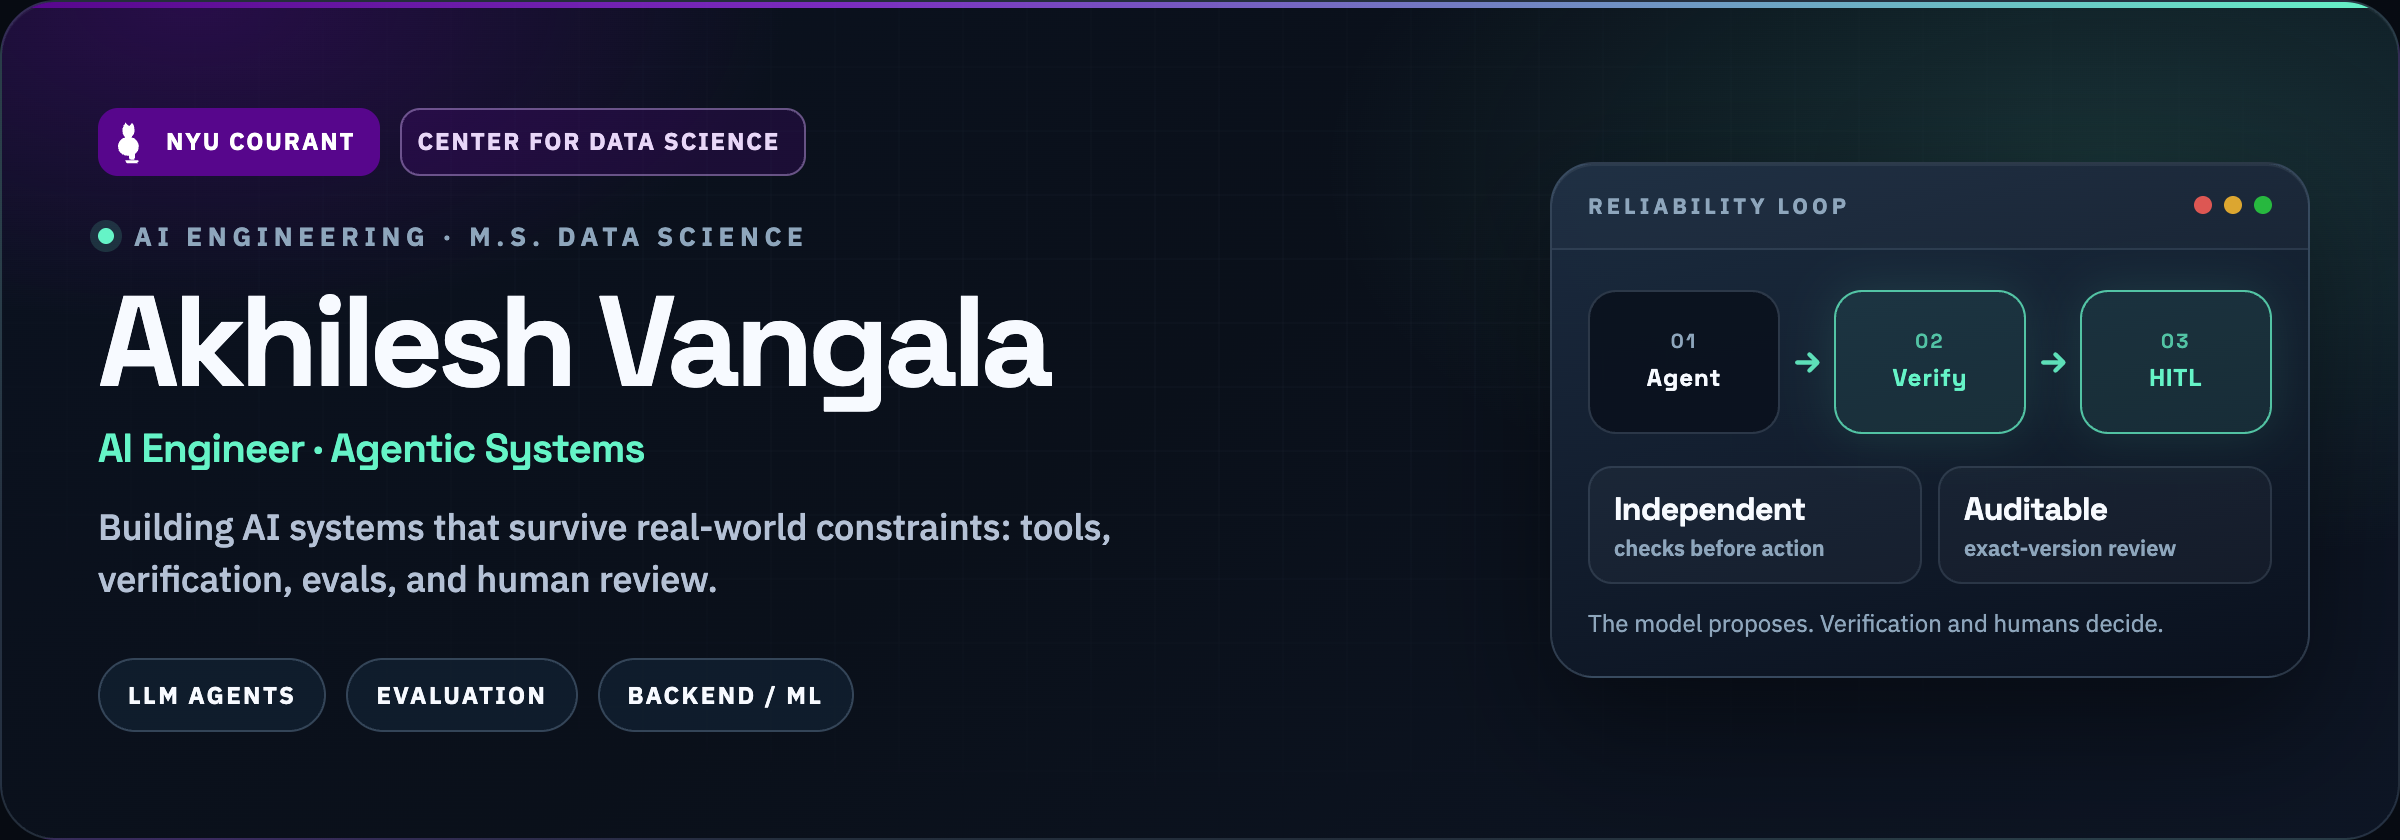
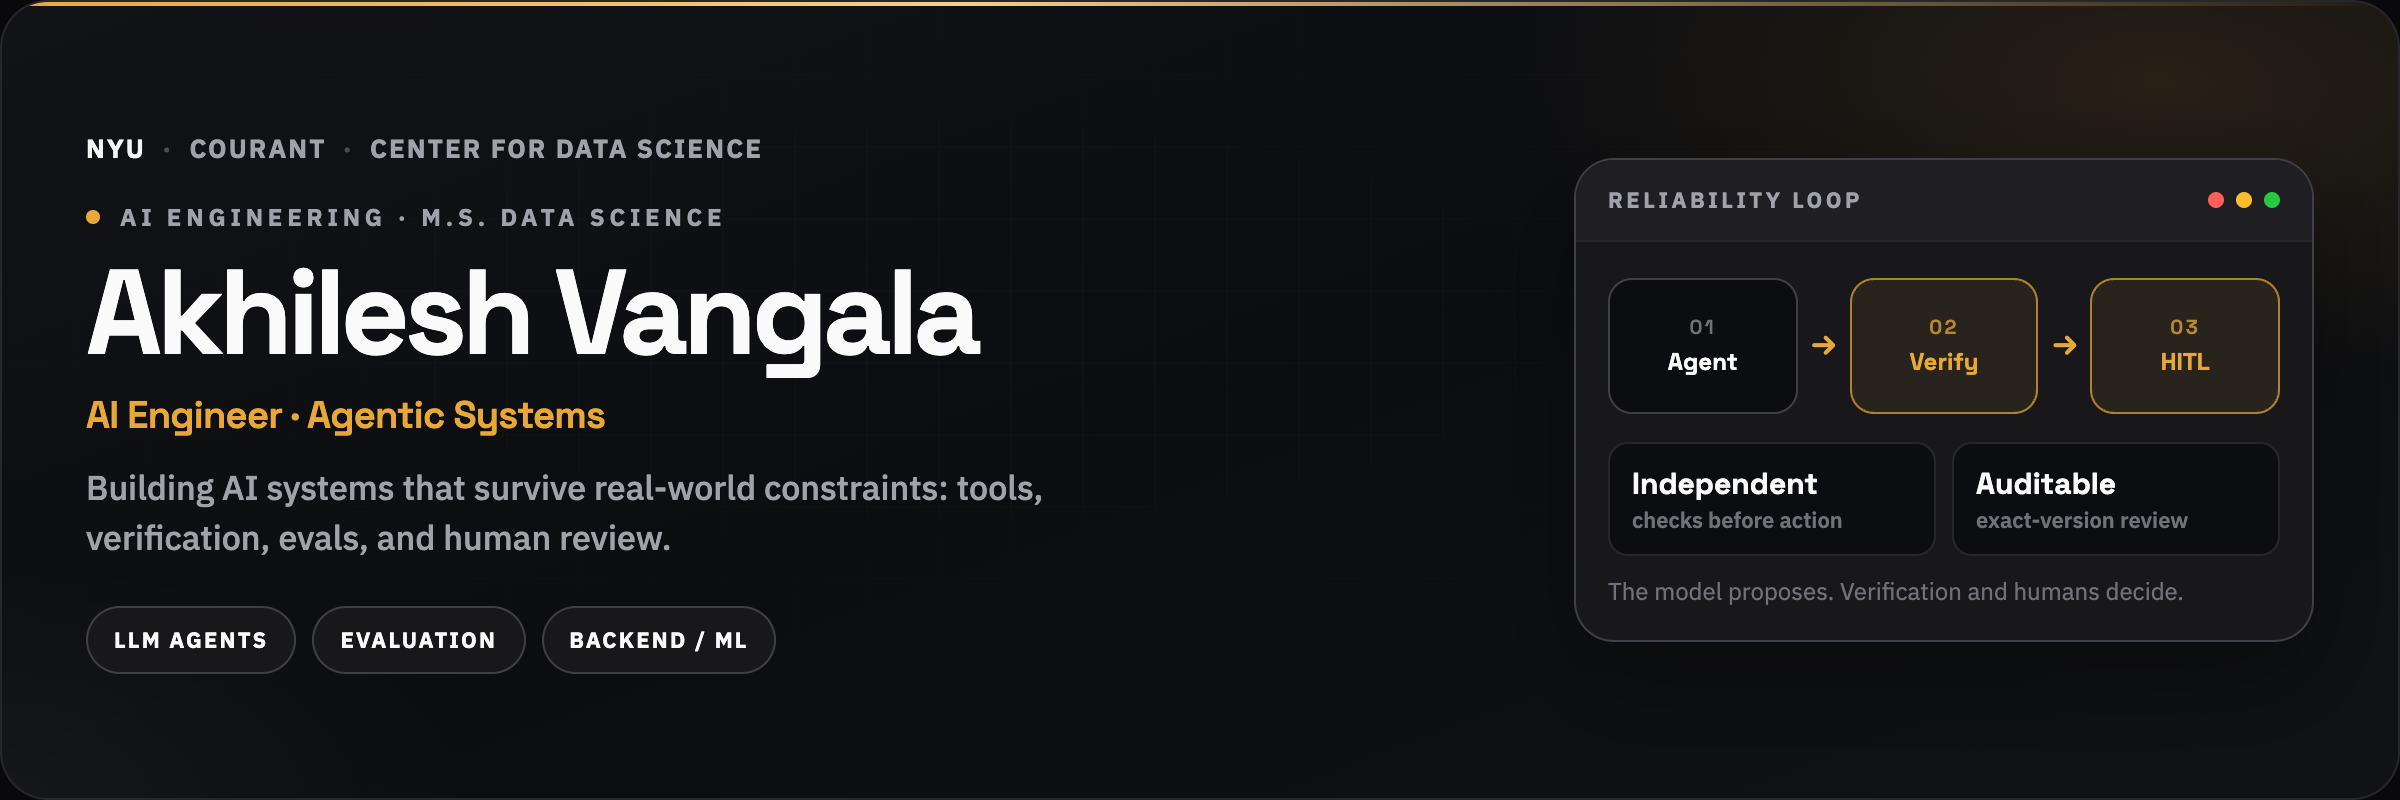
Restyle profile: slate/amber palette, no torch mark, PNG system cards.

diff --git a/README.md b/README.md
@@ -2,7 +2,7 @@
 
 <picture>
   <source media="(prefers-color-scheme: light)" srcset="./assets/hero-light.png" />
-  <img src="./assets/hero-dark.png" width="100%" alt="Akhilesh Vangala, AI Engineer at NYU Courant and Center for Data Science" />
+  <img src="./assets/hero-dark.png" width="100%" alt="Akhilesh Vangala, AI Engineer" />
 </picture>
 
 <br/>
@@ -28,54 +28,42 @@ I build **evidence-grounded agent systems**: tool-using workflows with auditable
 <table>
 <tr>
 <td width="50%" valign="top">
-  <a href="https://github.com/Akhilesh-Vangala/verifyops"><img src="./assets/verifyops.svg" width="100%" alt="VerifyOps" /></a>
-  <h3><a href="https://github.com/Akhilesh-Vangala/verifyops">VerifyOps</a></h3>
-  <p>Data-incident agent: restricted SQL investigation, independent dbt repair checks, persistent work state, exact-version human review.</p>
+  <a href="https://github.com/Akhilesh-Vangala/verifyops"><img src="./assets/verifyops.png" width="100%" alt="VerifyOps" /></a>
+  <p>Restricted SQL investigation, independent dbt repair checks, persistent state, exact-version human review.</p>
   <p><code>LangGraph</code> <code>FastAPI</code> <code>DuckDB</code> <code>dbt</code></p>
-  <p>
-    <a href="https://verifyops.vercel.app">Live showcase</a> ·
-    <a href="https://github.com/Akhilesh-Vangala/verifyops/blob/main/docs/CASE-STUDY.md">Case study</a>
-  </p>
+  <p><a href="https://verifyops.vercel.app">Live showcase</a> · <a href="https://github.com/Akhilesh-Vangala/verifyops/blob/main/docs/CASE-STUDY.md">Case study</a></p>
 </td>
 <td width="50%" valign="top">
-  <a href="https://github.com/Akhilesh-Vangala/relayops"><img src="./assets/relayops.svg" width="100%" alt="RelayOps" /></a>
-  <h3><a href="https://github.com/Akhilesh-Vangala/relayops">RelayOps</a></h3>
-  <p>Enterprise workflow agent: browser observations, cited hypotheses, private-copy simulation, immutable review, receipted sandbox actions.</p>
+  <a href="https://github.com/Akhilesh-Vangala/relayops"><img src="./assets/relayops.png" width="100%" alt="RelayOps" /></a>
+  <p>Browser observations, cited hypotheses, private-copy simulation, immutable review, receipted sandbox actions.</p>
   <p><code>LangGraph</code> <code>Playwright</code> <code>FastAPI</code> <code>Pydantic</code></p>
-  <p>
-    <a href="https://relayops-two.vercel.app">Live showcase</a> ·
-    <a href="https://github.com/Akhilesh-Vangala/relayops/blob/main/docs/CASE-STUDY.md">Case study</a>
-  </p>
+  <p><a href="https://relayops-two.vercel.app">Live showcase</a> · <a href="https://github.com/Akhilesh-Vangala/relayops/blob/main/docs/CASE-STUDY.md">Case study</a></p>
 </td>
 </tr>
 <tr>
 <td width="50%" valign="top">
-  <a href="https://github.com/Akhilesh-Vangala/healthcare-evidence-agent"><img src="./assets/evidence.svg" width="100%" alt="Healthcare Evidence Agent" /></a>
-  <h3><a href="https://github.com/Akhilesh-Vangala/healthcare-evidence-agent">Healthcare Evidence Agent</a></h3>
-  <p>Claude Code + MCP + reusable skills over openFDA, ClinicalTrials.gov, and CMS. Word-level citation checks. <strong>95%</strong> pass on a 30-task golden eval.</p>
+  <a href="https://github.com/Akhilesh-Vangala/healthcare-evidence-agent"><img src="./assets/evidence.png" width="100%" alt="Evidence Agent" /></a>
+  <p>Claude Code + MCP + skills over openFDA, ClinicalTrials.gov, CMS. <strong>95%</strong> pass on a 30-task golden eval.</p>
   <p><code>MCP</code> <code>Claude Code</code> <code>Agent Skills</code> <code>Evaluation</code></p>
   <p><a href="https://github.com/Akhilesh-Vangala/healthcare-evidence-agent">Results &amp; reproducibility</a></p>
 </td>
 <td width="50%" valign="top">
-  <a href="https://github.com/Akhilesh-Vangala/agent-config-bench"><img src="./assets/bench.svg" width="100%" alt="Agent Config Bench" /></a>
-  <h3><a href="https://github.com/Akhilesh-Vangala/agent-config-bench">Agent Config Bench</a></h3>
-  <p>Ablation of tools, skills, and model choice on identical golden tasks with an automatic grader and paired bootstrap CIs.</p>
+  <a href="https://github.com/Akhilesh-Vangala/agent-config-bench"><img src="./assets/bench.png" width="100%" alt="Config Bench" /></a>
+  <p>Ablation of tools, skills, and model choice with an automatic grader and paired bootstrap CIs.</p>
   <p><code>Experiment Design</code> <code>Bootstrap CIs</code> <code>LLM Evaluation</code></p>
   <p><a href="https://github.com/Akhilesh-Vangala/agent-config-bench">Read the benchmark</a></p>
 </td>
 </tr>
 <tr>
 <td width="50%" valign="top">
-  <a href="https://github.com/Akhilesh-Vangala/Nexus"><img src="./assets/nexus.svg" width="100%" alt="Nexus" /></a>
-  <h3><a href="https://github.com/Akhilesh-Vangala/Nexus">Nexus</a></h3>
-  <p>Research advisor discovery with live retrieval, activity checks, semantic matching, and citation-grounded synthesis. Claude at Columbia hackathon winner.</p>
+  <a href="https://github.com/Akhilesh-Vangala/Nexus"><img src="./assets/nexus.png" width="100%" alt="Nexus" /></a>
+  <p>Research advisor discovery with live retrieval, semantic matching, and citation-grounded synthesis.</p>
   <p><code>TypeScript</code> <code>Retrieval</code> <code>Embeddings</code> <code>LLMs</code></p>
   <p><a href="https://github.com/Akhilesh-Vangala/Nexus">Architecture</a></p>
 </td>
 <td width="50%" valign="top">
-  <a href="https://github.com/Akhilesh-Vangala/generative-lane-restoration"><img src="./assets/lane.svg" width="100%" alt="Generative Lane Restoration" /></a>
-  <h3><a href="https://github.com/Akhilesh-Vangala/generative-lane-restoration">Generative Lane Restoration</a></h3>
-  <p>CLRerNet detection + LoRA-tuned Qwen Image Edit to restore lane markings in dashcam frames.</p>
+  <a href="https://github.com/Akhilesh-Vangala/generative-lane-restoration"><img src="./assets/lane.png" width="100%" alt="Lane Restore" /></a>
+  <p>CLRerNet detection + LoRA-tuned Qwen Image Edit for dashcam lane restoration.</p>
   <p><code>Computer Vision</code> <code>Fine-tuning</code> <code>PyTorch</code> <code>Qwen</code></p>
   <p><a href="https://github.com/Akhilesh-Vangala/generative-lane-restoration">Before / after</a></p>
 </td>
